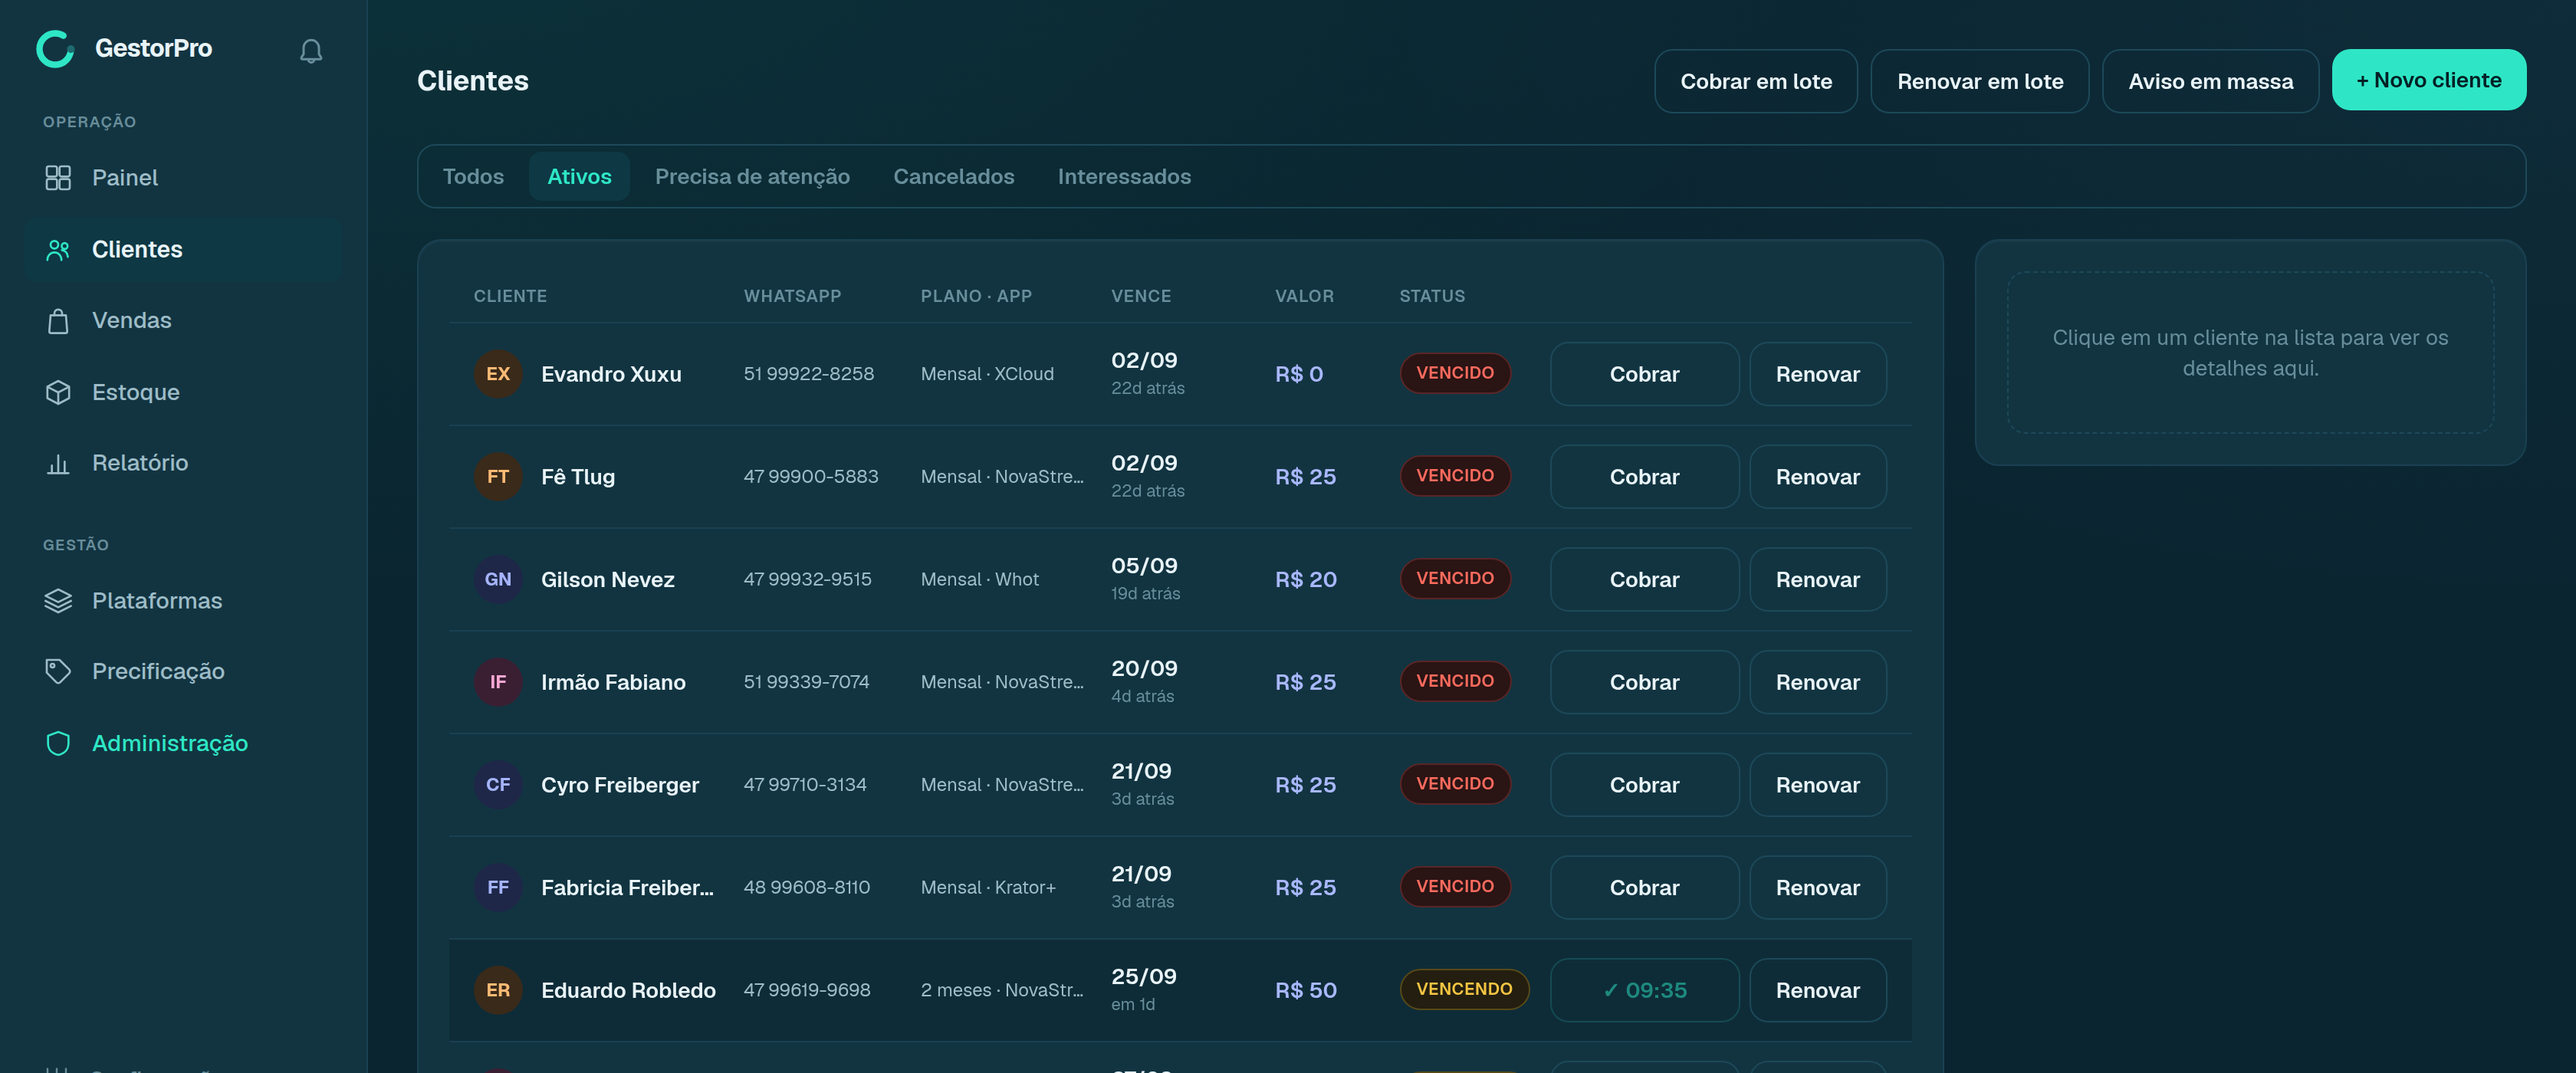
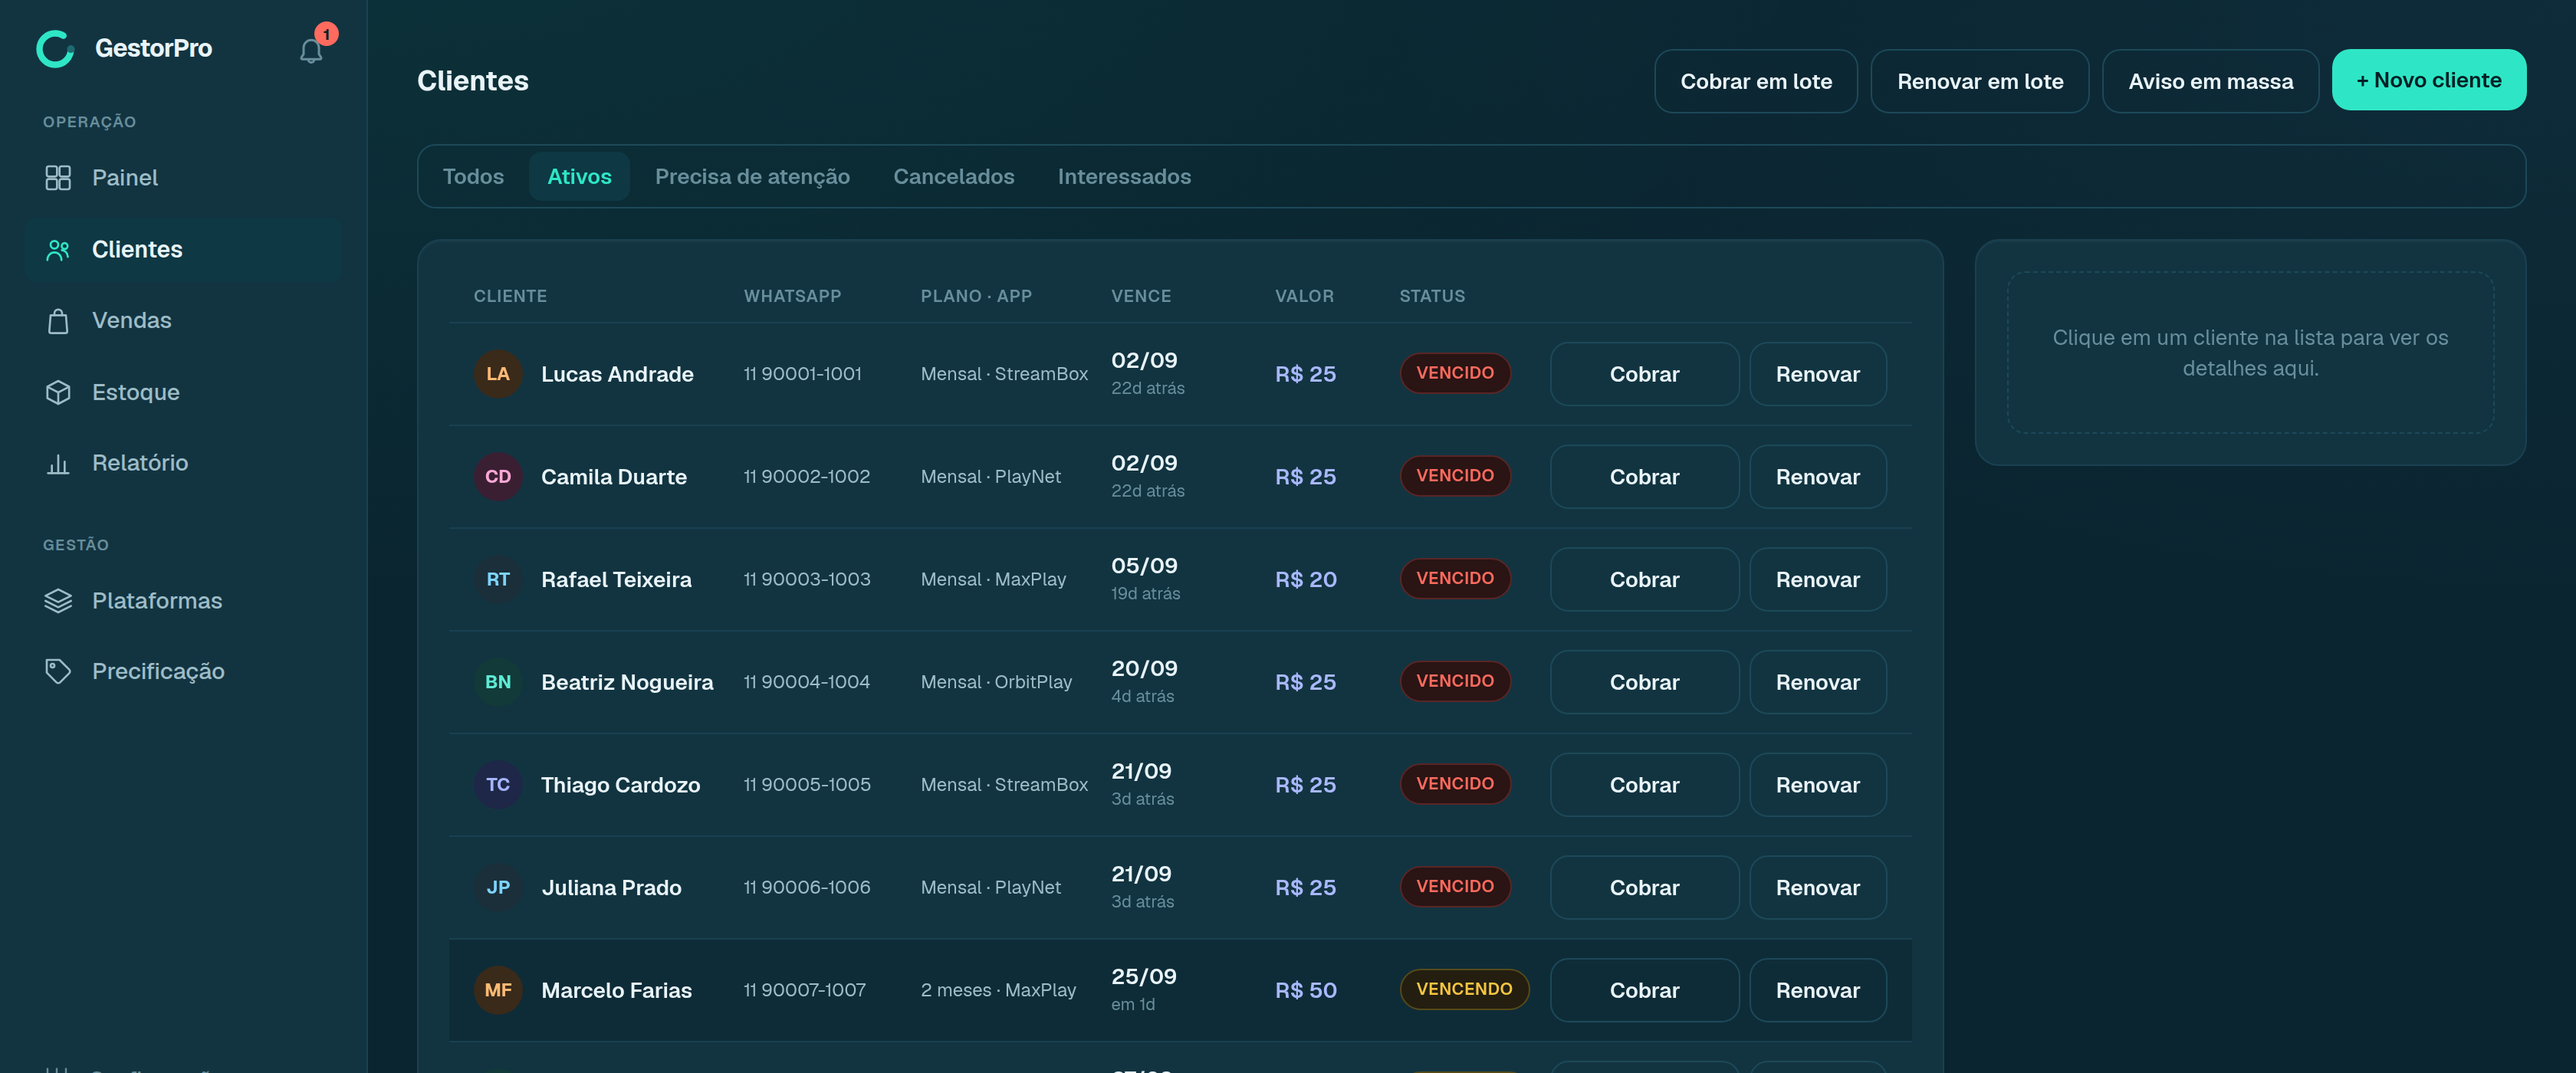
Troca nomes das imagens da landing por dados 100% fictícios e amplia o hero
Os screenshots e o card "Fila de cobrança" da landing tinham nomes de
clientes reais da revenda do usuário (importados/testados nesta mesma
conta ao longo da sessão) — não eram fictícios como deveriam. Recriei
todas as capturas (Painel, Clientes, Vendas, Relatório, hero
desktop/mobile) a partir de uma conta de teste isolada, sem nenhum
vínculo com dados reais, com nomes e apps totalmente inventados.

Também ampliei o mockup do notebook/celular no hero (estava pequeno
demais pro anúncio do site) e a área que ele ocupa na seção.

Claude-Session: https://claude.ai/code/session_015VoPaG4gTUMm6WpLLdmbEy

diff --git a/src/components/landing-page.tsx b/src/components/landing-page.tsx
@@ -66,9 +66,9 @@ const PLANO_CHECKLIST = [
 ];
 
 const FILA_PREVIEW = [
-  { iniciais: "EV", nome: "Evandro Xuxu", dias: "21 dias vencido" },
-  { iniciais: "FT", nome: "Fê Tlug", dias: "21 dias vencido" },
-  { iniciais: "GN", nome: "Gilson Nevez", dias: "19 dias vencido" },
+  { iniciais: "LA", nome: "Lucas Andrade", dias: "22 dias vencido" },
+  { iniciais: "CD", nome: "Camila Duarte", dias: "22 dias vencido" },
+  { iniciais: "RT", nome: "Rafael Teixeira", dias: "19 dias vencido" },
 ];
 
 const FAQ = [
@@ -154,7 +154,7 @@ export function LandingPage() {
           />
 
           <div className="relative mx-auto max-w-6xl px-5 pb-16 pt-14 md:pb-24 md:pt-20">
-            <div className="grid items-center gap-12 md:grid-cols-2">
+            <div className="grid items-center gap-12 md:grid-cols-[minmax(0,1fr)_minmax(0,1.2fr)]">
               <div>
                 <span className="inline-flex items-center gap-2 rounded-full border border-accent-strong bg-accent-soft px-4 py-1.5 text-xs font-bold uppercase tracking-wider text-accent">
                   <span className="h-1.5 w-1.5 rounded-full bg-accent" />
@@ -198,7 +198,7 @@ export function LandingPage() {
               </div>
 
               <div className="relative flex justify-center pb-8 pr-4 sm:pb-10 sm:pr-8">
-                <div className="absolute h-72 w-72 rounded-full bg-accent/20 blur-3xl" aria-hidden="true" />
+                <div className="absolute h-80 w-80 rounded-full bg-accent/20 blur-3xl sm:h-96 sm:w-96" aria-hidden="true" />
 
                 {/* Cartão flutuante estilo notificação — sugere uma cobrança
                     resolvida sozinha, reforça a mensagem do produto sem
@@ -210,12 +210,12 @@ export function LandingPage() {
                   <span className="flex h-6 w-6 shrink-0 items-center justify-center rounded-full bg-accent text-bg-deep">
                     <CheckIcon className="h-3.5 w-3.5" />
                   </span>
-                  <span className="text-xs font-semibold text-text">Ana renovou · R$ 28</span>
+                  <span className="text-xs font-semibold text-text">Beatriz renovou · R$ 28</span>
                 </div>
 
                 {/* Notebook: tela com moldura grossa sobre uma base (deck do teclado)
                     nitidamente mais larga e clara que a tela, como um notebook aberto. */}
-                <div className="relative w-full max-w-[440px] pb-3">
+                <div className="relative w-full max-w-[560px] pb-3">
                   <div className="relative rounded-t-xl border-[10px] border-b-0 border-surface-2 bg-bg-deep shadow-2xl">
                     <span className="absolute left-1/2 top-[-5px] h-[3px] w-[3px] -translate-x-1/2 rounded-full bg-bg" aria-hidden="true" />
                     <div className="overflow-hidden">
@@ -232,7 +232,7 @@ export function LandingPage() {
                 </div>
 
                 {/* Celular sobreposto no canto, sugerindo o mesmo painel também no bolso */}
-                <div className="absolute -bottom-6 -right-1 w-[92px] overflow-hidden rounded-[18px] border-[4px] border-surface-2 bg-bg-deep shadow-2xl sm:-right-3 sm:w-[112px]">
+                <div className="absolute -bottom-8 -right-2 w-[112px] overflow-hidden rounded-[20px] border-[4px] border-surface-2 bg-bg-deep shadow-2xl sm:-right-4 sm:w-[138px]">
                   <div className="absolute left-1/2 top-0 z-10 h-2.5 w-11 -translate-x-1/2 rounded-b-md bg-surface-2" />
                   {/* eslint-disable-next-line @next/next/no-img-element */}
                   <img src="/landing-preview.png" alt="Painel do GestorPro no celular" className="block w-full" />
@@ -315,11 +315,11 @@ export function LandingPage() {
                 </p>
                 <div className="mt-4 rounded-xl border border-border-strong bg-bg-deep p-3">
                   <div className="rounded-lg bg-accent-soft px-3 py-2 text-xs leading-relaxed text-text">
-                    Oi Evandro! Seu plano Mensal vence em 02/09. Pra renovar, é só fazer o Pix de R$ 60,00 e me
+                    Oi Lucas! Seu plano Mensal vence em 02/09. Pra renovar, é só fazer o Pix de R$ 60,00 e me
                     mandar o comprovante. Obrigado!
                   </div>
                   <div className="mt-2 inline-flex items-center gap-1.5 rounded-full bg-surface px-2.5 py-1 text-[11px] font-semibold text-accent">
-                    <CheckIcon className="h-3 w-3" /> Cobrança enviada para Evandro
+                    <CheckIcon className="h-3 w-3" /> Cobrança enviada para Lucas
                   </div>
                 </div>
               </div>
